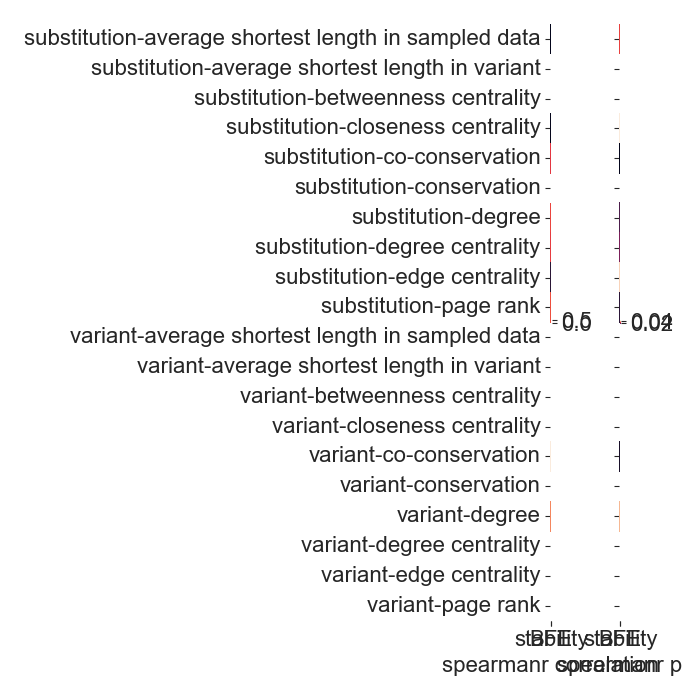
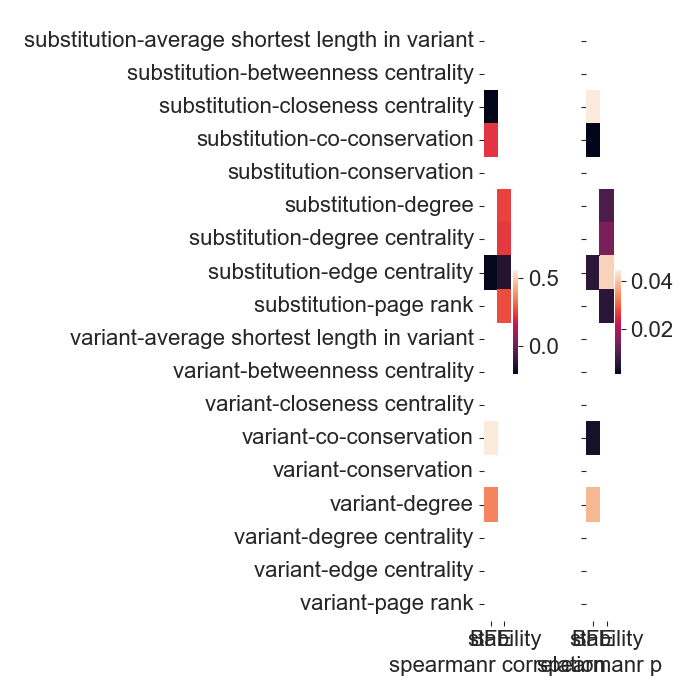
调整 table 2 3 列的顺序；添加 omicron 和 delta 的对比图；

diff --git a/v2/combine_with_other_tools.py b/v2/combine_with_other_tools.py
@@ -82,9 +82,6 @@ class CombineResult:
         aa_info = aa_info.sort_values("conservation", ascending=True)
         aa_info.to_csv(os.path.join(data_dir, "combine_with_other_tools - single.csv"))
 
-
-
-
         # 相关性分析
         c1_columns = ["stability", "BFE"]  # 比较对象 1
         c2_columns = conservation_data_columns  # 比较对象 2
@@ -376,7 +373,7 @@ class CombineResult:
         all_cor = all_cor.rename(
             {"co-substitution": "substitution", "variant (single)": "variant", "variant (co)": "variant"}, level=0,
             axis=0)
-        all_cor = all_cor.drop(["degree", "average weighted degree", "conservation"], level=2, axis=0)
+        all_cor = all_cor.drop(["degree", "average weighted degree", "conservation", "average shortest length in sampled data"], level=2, axis=0)
         all_cor = all_cor.rename({"weighted degree": "degree", "normalized conservation": "conservation"})
 
         # 统计两种相关性的个数
@@ -430,7 +427,12 @@ class CombineResult:
         # 格式化
         valid_cor = valid_cor[target_columns + ["top3"]]
         valid_cor.index.names = map(lambda x: x[0].upper() + x[1:], ["#", "kind", "network characteristic"])
-        valid_cor.columns = ["Spearman correlation", "P value", "Top3"]
+        valid_cor.columns = ["Correlation", "P value", "Top3"]
+        # top3 放在前面
+        valid_cor = valid_cor.reset_index()
+        valid_cor.insert(2, "Top3", valid_cor.pop("Top3"))
+        valid_cor = valid_cor.sort_values(valid_cor.columns.to_list()[:4])
+        valid_cor = valid_cor.set_index(valid_cor.columns.to_list()[:4])
         # 保存
         valid_cor.to_excel(os.path.join(data_dir, "combine_with_other_tools - parse.xlsx"))
 
@@ -473,12 +475,23 @@ class CombineResult:
             all_cor_sorted_valid["spearmanr correlation"].astype(int).abs() != 1]
 
         # 格式化结果
-        all_cor_sorted_valid = all_cor_sorted_valid.drop(["degree", "average weighted degree", "conservation"], level=1,
+        all_cor_sorted_valid = all_cor_sorted_valid.drop(["degree", "average weighted degree", "conservation", "average shortest length in sampled data"], level=1,
                                                          axis=0)
         all_cor_sorted_valid = all_cor_sorted_valid.rename(
-            {"weighted degree": "degree", "normalized conservation": "conservation"})
-        all_cor_sorted_valid.index.names = ["#", "Network characteristic"]
+            {"weighted degree": "degree", "normalized conservation": "conservation", "average shortest length in variant": "average shortest length"})
+        all_cor_sorted_valid.index.names = ["Kind", "Network characteristic"]
         all_cor_sorted_valid.columns = map(lambda x: x[0].upper() + x[1:], all_cor_sorted_valid.columns)
+
+        # 毒株作为第一列
+        all_cor_sorted_valid = all_cor_sorted_valid.reset_index()
+        all_cor_sorted_valid.insert(0, "Variant", all_cor_sorted_valid.pop("Variant"))
+        all_cor_sorted_valid.insert(2, "Top3", all_cor_sorted_valid.pop("Top3"))
+        all_cor_sorted_valid = all_cor_sorted_valid.sort_values("Variant")
+        all_cor_sorted_valid = all_cor_sorted_valid.set_index(all_cor_sorted_valid.columns.to_list()[:4])
+        # 格式化
+        all_cor_sorted_valid = all_cor_sorted_valid.iloc[:, :-2]
+        all_cor_sorted_valid = all_cor_sorted_valid.rename(
+            {"Spearmanr correlation": "Correlation", "Spearmanr p": "P value"}, axis=1)
 
         # 保存
         all_cor_sorted_valid.to_excel(os.path.join(data_dir, "combine_with_other_tools - parse - variant.xlsx"))
@@ -528,14 +541,16 @@ class CombineResult:
             top3 = co_info_sorted.iloc[:3]
             top3 = top3.apply(lambda x: f"{x.a1}-{x.a2}", axis=1).to_list()
             top3 = ",".join(top3)
-            co_res.append( {"Network characteristic": n, "Top3": top3})
+            co_res.append({"Network characteristic": n, "Top3": top3})
 
         # single
         single_info: pd.DataFrame = pd.read_csv(single_info_path)
         single_info["conservation"] = single_info["normalized conservation"]
         single_info["degree"] = single_info["average weighted degree"]
         print(single_info.columns.to_list())
-        single_target_names = ['degree', 'conservation', 'closeness centrality', 'betweenness centrality', 'degree centrality', 'page rank', 'average shortest length in variant', 'average shortest length in sampled data']
+        single_target_names = ['degree', 'conservation', 'closeness centrality', 'betweenness centrality',
+                               'degree centrality', 'page rank', 'average shortest length in variant',
+                               'average shortest length in sampled data']
         single_res = []
         for n in single_target_names:
             single_info_sorted = single_info.sort_values(n, ascending=False)
@@ -590,14 +605,14 @@ if __name__ == '__main__':
     # cr.analysis_variant()
 
     # 解析结果
-    CombineResult.parse_result()
-    CombineResult.parse_variant_result()
+    # CombineResult.parse_result()
+    # CombineResult.parse_variant_result()
 
     # 绘制散点图
     # CombineResult.plot_correlation_scatter()
 
     # 网络参数前几
-    # CombineResult.get_graph_top3()
+    CombineResult.get_graph_top3()
 
     # 绘制分布图
     # CombineResult.plot_for_stability_bfe()

diff --git a/v2/output_procon_analysis.py b/v2/output_procon_analysis.py
@@ -843,10 +843,12 @@ class ProConNetwork:
         # self._plot_2D()  # 二维坐标图
 
         # 以 substitution 为单位的图
-        # self._boxplot_for_all_kinds()
+        self._boxplot_for_all_kinds()
+        self._boxplot_for_all_kinds("BA.4(Omicron)")
+        self._boxplot_for_all_kinds("B.1.617.2(Delta)")
 
         # 以毒株为单位的图
-        self._group_plot_with_node()
+        # self._group_plot_with_node()
 
         # 废弃
         #
@@ -1055,15 +1057,15 @@ class ProConNetwork:
                 .render(os.path.join(self.data_dir, "mutation relationship.html"))
         )
 
-    def _boxplot_for_all_kinds(self):
-        def _func_boxplot(variant, sample, ax, func, name):
+    def _boxplot_for_all_kinds(self, target_variant=None):
+        def _func_boxplot(variant, sample, ax, func, name, target_variant):
             variant_scores = func(variant)
             sample_scores = func(sample)
 
             # 绘制箱线图
             _plot_data = pd.DataFrame(
                 {"score": variant_scores + sample_scores,
-                 "label": ["variant"] * len(variant_scores) + ["sample"] * len(sample_scores)}
+                 "label": ["variant" if target_variant is None else target_variant] * len(variant_scores) + ["sample"] * len(sample_scores)}
             )
             sns.boxplot(data=_plot_data, x="label", y="score", ax=ax, fliersize=1)
             p_value = mannwhitneyu(variant_scores, sample_scores).pvalue
@@ -1080,13 +1082,29 @@ class ProConNetwork:
         funcs = self.get_functions()
 
         # init data
-        variant = self.analysis_mutation_group.non_duplicated_aas_positions
+        if target_variant is None:
+            variant = self.analysis_mutation_group.non_duplicated_aas_positions
+        else:
+            variant_name = self.analysis_mutation_group.aa_groups_info["name"].to_list()
+            variant_index = variant_name.index(target_variant)
+            variant = self.analysis_mutation_group.aa_groups[variant_index]
+            variant = [self._aa2position(i) for i in variant]
+
         sample = [j for i in self.analysis_mutation_group.non_duplicated_aas_sample for j in i]
         for idx, (key, func) in enumerate(funcs.items()):
             ax = axes[idx]
-            _func_boxplot(variant, sample, ax, func, key)
+            _func_boxplot(variant, sample, ax, func, key, target_variant=target_variant)
         fig.show()
-        fig.savefig(os.path.join(self.data_dir, "boxplot_of_all.png"))
+
+        # save fig
+        if target_variant is None:
+            fig_file_name = os.path.join(self.data_dir, "boxplot_of_all.png")
+        else:
+            fig_file_name = os.path.join(self.data_dir, target_variant,  "boxplot_of_all.png")
+            if not os.path.exists(os.path.dirname(fig_file_name)):
+                os.mkdir(os.path.dirname(fig_file_name))
+
+        fig.savefig(fig_file_name)
 
     def get_functions(self):
         funcs = {
